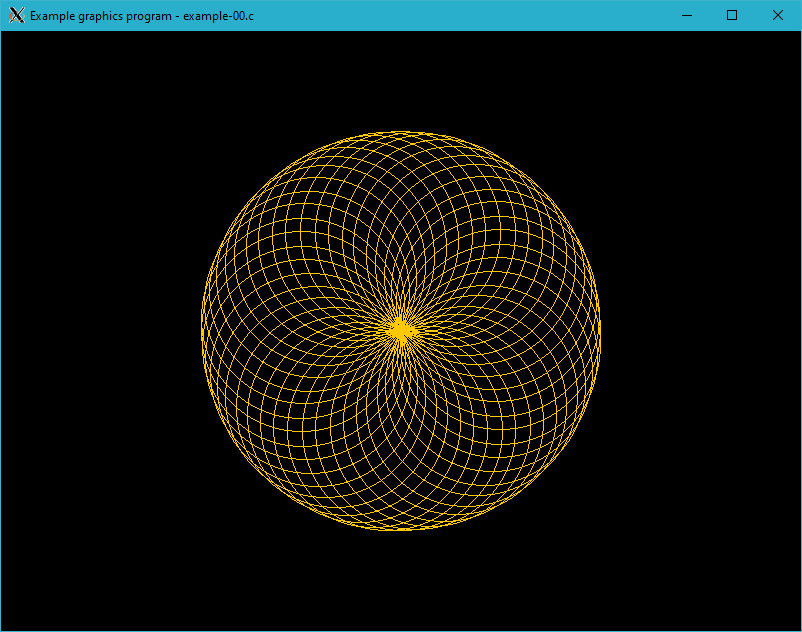
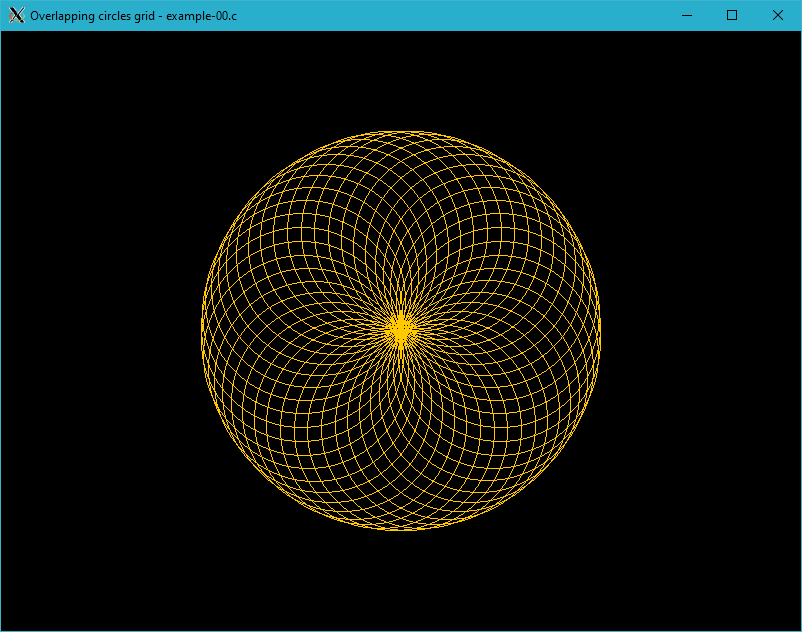
Update

Changed region(s): [[0.2494, 0.2104, 0.7481, 0.8418], [0.0312, 0.0, 0.3117, 0.0601]]

diff --git a/examples/overlapping_circles_grid/example-00.c b/examples/overlapping_circles_grid/example-00.c
@@ -5,6 +5,7 @@
  *
  * -mwindows a Windows app is built which doesn't produce a console window.
  * gcc example-00.c xwin.c -o example-00 -lX11 -lm
+ * ./example-00 12
  *
  */
 
@@ -15,8 +16,17 @@ int main( int argc, char* argv[] )
    bool condition = true;
    int height = 0;
    int width = 0;
-   int y, x, i;
+   int y, x, i, n, radius = 100;
    int key;
+
+   if ( argc < 2 )
+   {
+      n = 45;
+   }
+   else
+   {
+      n = atoi( argv[ 1 ] );
+   }
 
    XWinInit( argc, argv );
 
@@ -27,13 +37,14 @@ int main( int argc, char* argv[] )
       if( height != WindowHeight() || width != WindowWidth() )
       {
          height = WindowHeight();
-         width  = WindowWidth();
+         width = WindowWidth();
 
-         for( i = 1; i < 45; i++ )
+         for( i = 0; i < n; i++ )
          {
-            y = cos( i ) * 100 + height / 2;
-            x = sin( i ) * 100 + width / 2;
-            Circle( y, x, 100, 0xffc800 );
+            y = cos( M_PI + i * 2 * M_PI / n ) * radius + height / 2;
+            x = sin( i * 2 * M_PI / n ) * radius + width / 2;
+
+            Circle( y, x, radius, 0x0f785b );
          }
       }
 

diff --git a/docs/index.md b/docs/index.md
@@ -25,12 +25,12 @@ int main( int argc, char* argv[] )
    bool condition = true;
    int height = 0;
    int width = 0;
-   int y, x, i;
+   int y, x, i, n = 45, radius = 100;
    int key;
 
    XWinInit( argc, argv );
 
-   XWinOpen( 800, 600, "Example graphics program - example-00.c" );
+   XWinOpen( 800, 600, "Overlapping circles grid - example-00.c" );
 
    while( condition )
    {
@@ -39,11 +39,12 @@ int main( int argc, char* argv[] )
          height = WindowHeight();
          width  = WindowWidth();
 
-         for( i = 1; i < 45; i++ )
+         for( i = 0; i < n ; i++ )
          {
-            y = cos( i ) * 100 + height / 2;
-            x = sin( i ) * 100 + width / 2;
-            Circle( y, x, 100, 0xffc800 );
+            y = cos( M_PI + i * 2 * M_PI / n ) * radius + height / 2;
+            x = sin( i * 2 * M_PI / n ) * radius + width / 2;
+
+            Circle( y, x, radius, 0x0f785b );
          }
       }
 
